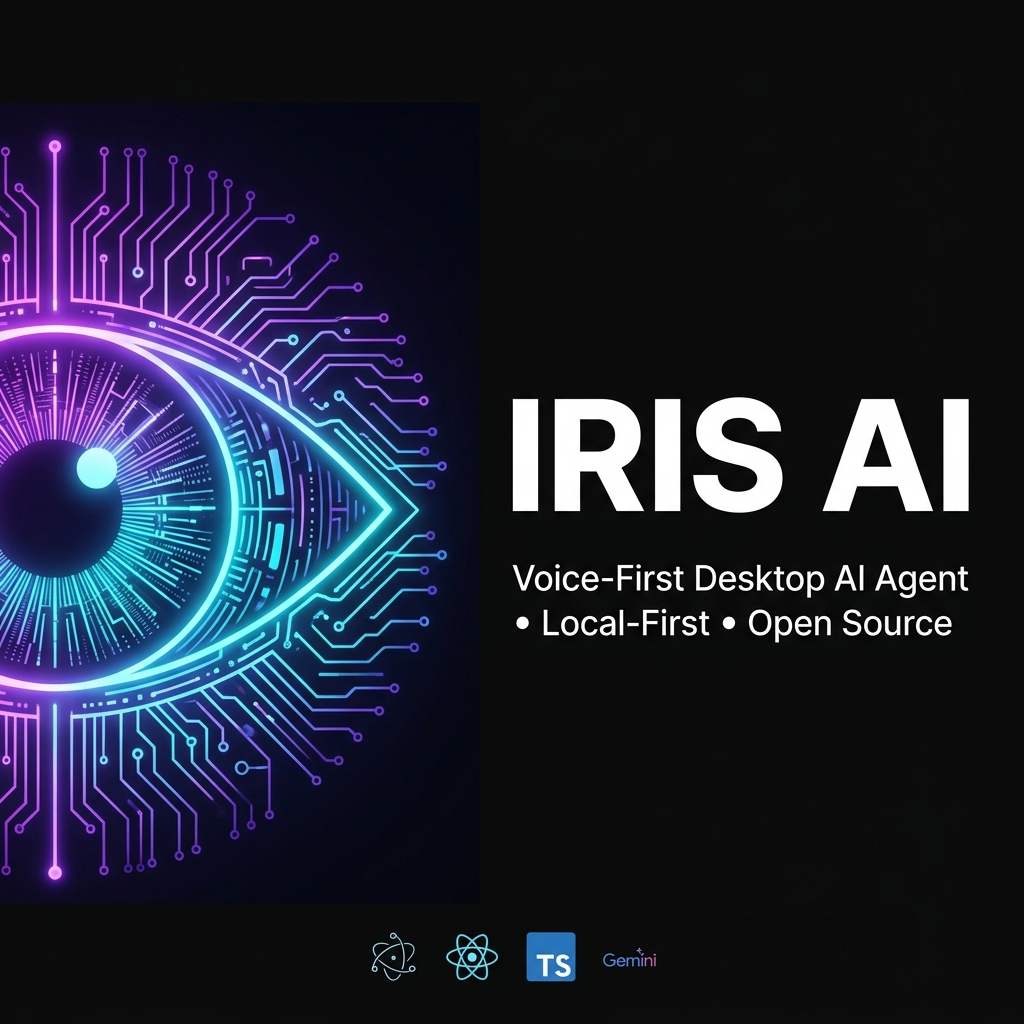
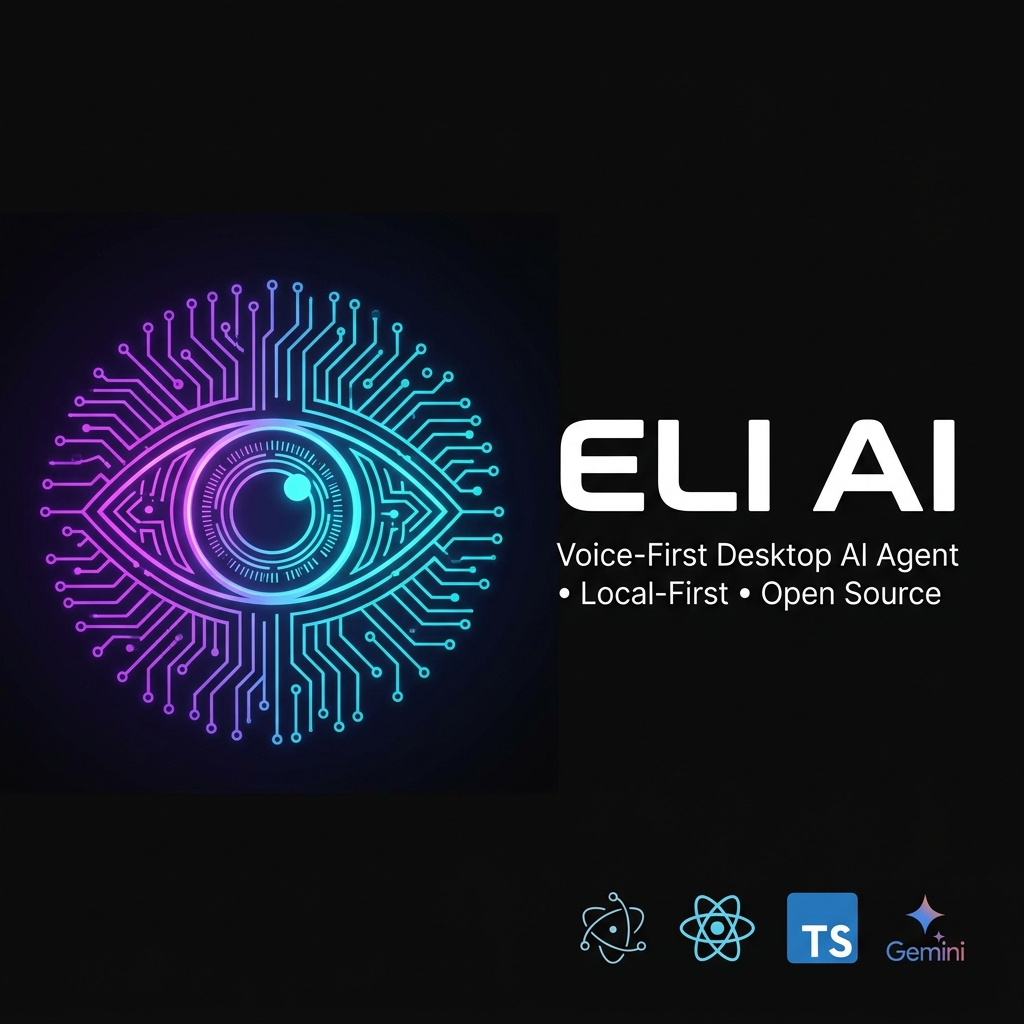
chore: rename project references from iris to eli and add social preview asset

diff --git a/ARCHITECTURE.md b/ARCHITECTURE.md
@@ -1,4 +1,4 @@
-# ELI AI — System Architecture
+# ELI AI — System Architecture
 
 > Deep technical reference for contributors and developers.
 > For usage and setup, see the [README](./README.md).
@@ -116,7 +116,7 @@ stateDiagram-v2
     Connected --> Disconnected: Watchdog timeout
 ```
 
-The **Watchdog** (`IndexRoot.tsx`) polls `irisService.isConnected` every 1 second. If the WebSocket drops silently, it resets the UI state and stops vision processing automatically.
+The **Watchdog** (`IndexRoot.tsx`) polls `eliService.isConnected` every 1 second. If the WebSocket drops silently, it resets the UI state and stops vision processing automatically.
 
 ---
 
@@ -273,7 +273,7 @@ graph LR
     subgraph "Encryption (Main Process)"
         Safe["electron.safeStorage.encryptString()"]
         B64["Base64 Encoding"]
-        File["iris_secure_vault.json<br/>(Encrypted blob on disk)"]
+        File["eli_secure_vault.json<br/>(Encrypted blob on disk)"]
     end
 
     subgraph "Runtime Decryption"
@@ -353,7 +353,7 @@ graph LR
 }
 ```
 
-Workflows are persisted to `iris_workflows.json` in the Electron `userData` directory.
+Workflows are persisted to `eli_workflows.json` in the Electron `userData` directory.
 
 ---
 

diff --git a/SECURITY.md b/SECURITY.md
@@ -1,4 +1,4 @@
-# Security Policy
+# Security Policy
 
 If you believe you've found a legitimate security vulnerability in the ELI OS Agent, please report it privately. Do not open public issues for critical zero-days or remote code execution (RCE) flaws.
 
@@ -50,7 +50,7 @@ Privacy is absolute. ELI operates on a strict zero-trust architecture regarding 
   - **Windows:** `DPAPI` via Electron `safeStorage`
   - **macOS:** Apple Keychain
   - **Linux:** Secret Service API
-- The keys are stored in a local, encrypted `iris_secure_vault.json` file.
+- The keys are stored in a local, encrypted `eli_secure_vault.json` file.
 - **Out of Scope:** Reports demonstrating that a malicious actor who already has root access to your machine can decrypt this file are out of scope. If an attacker has root, the machine is already compromised.
 
 ---
